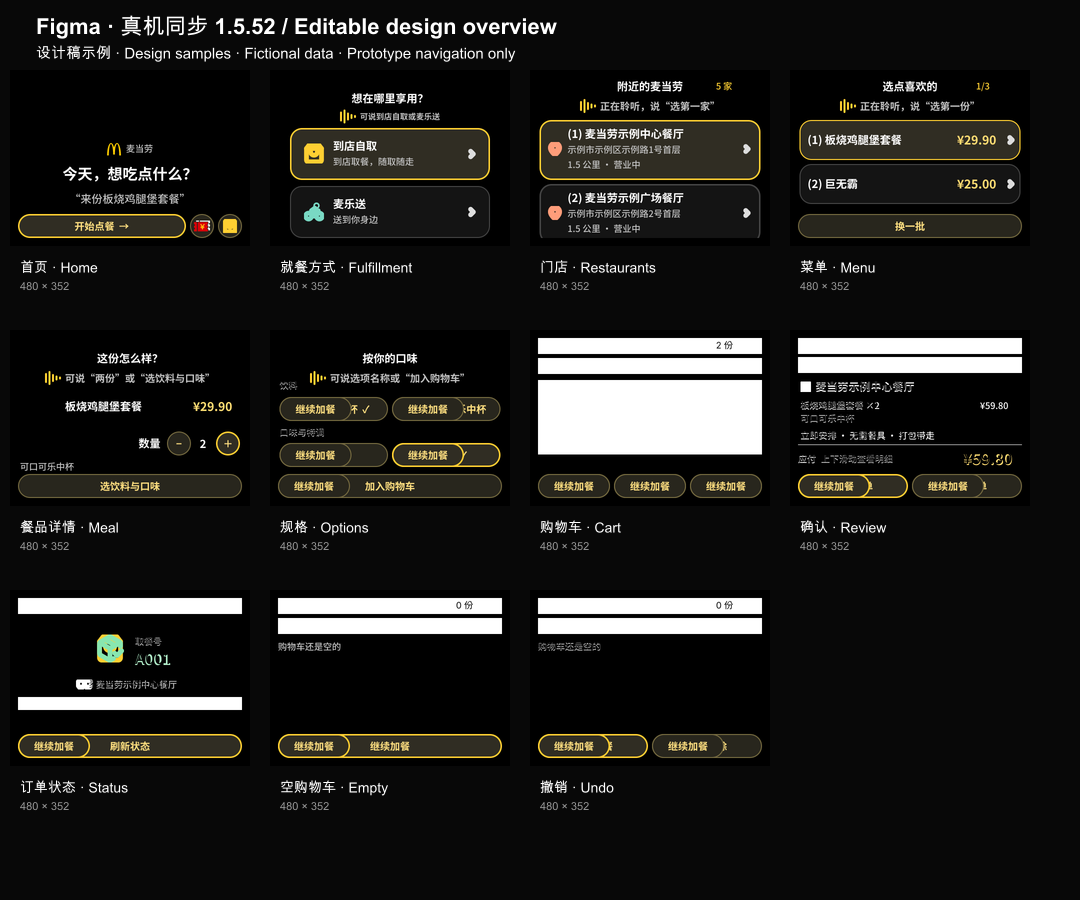
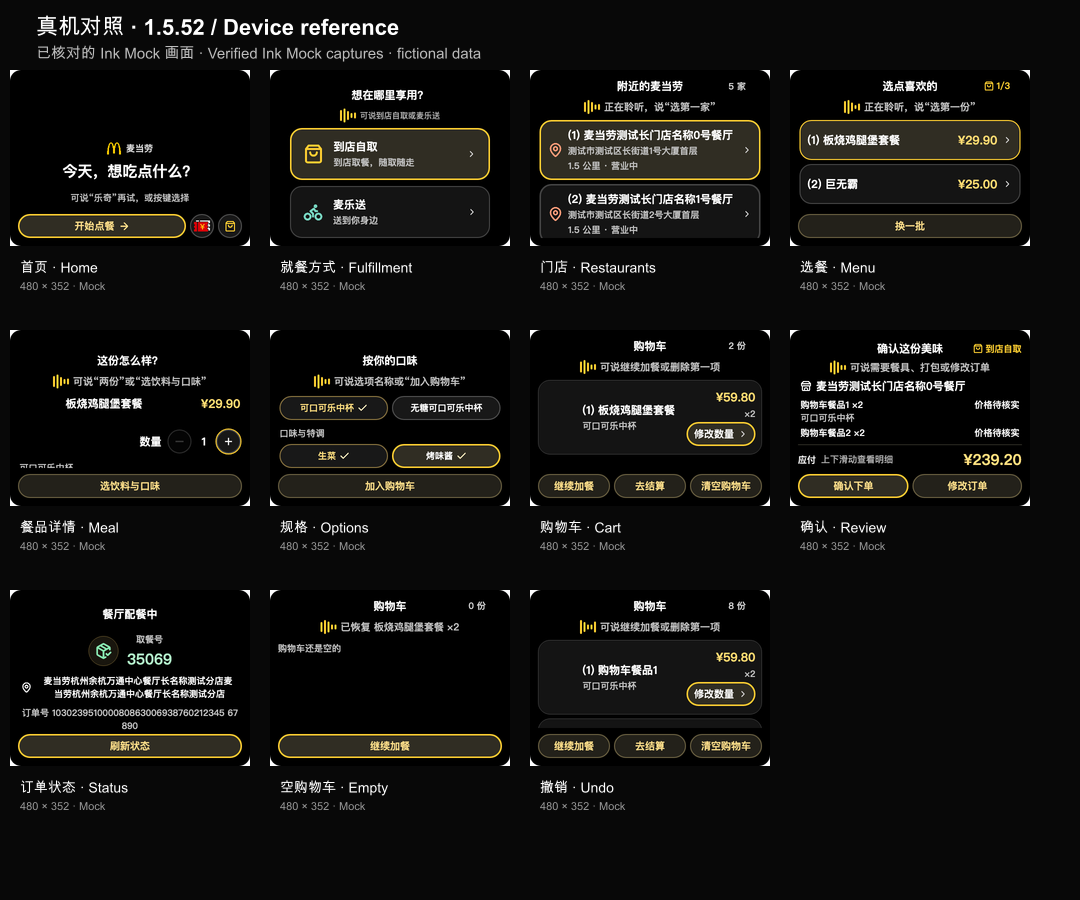
docs: add exact Ink reference page

diff --git a/docs/DESIGN.md b/docs/DESIGN.md
@@ -6,11 +6,11 @@
 
 [打开 Figma：真机同步 · 1.5.52](https://www.figma.com/design/SdkRT16rRIyzNJpWggXW4I/?node-id=309-3333)。[核心流程演示入口](https://www.figma.com/proto/SdkRT16rRIyzNJpWggXW4I/?node-id=309-3334&starting-point-node-id=309%3A3334)。
 
-此页面基于当前1.5.52源码的尺寸、样式和既有真机画面重新制作；原有三个设计页面保留。新版包含独立文本、向量图标、卡片和按钮实例，可继续编辑；不是将整张截图当作设计图层。
+可编辑页面基于当前1.5.52源码制作；另有「真机对照 · 1.5.52」（node-id=311-3799）页面，放置已核对的480×352 Ink Mock参考画面，作为精确视觉基准，避免Figma文字渲染差异造成误判。原有三个设计页面保留。可编辑页面包含独立文本、向量图标、卡片和按钮实例。
 
-**下图为 Figma 设计稿导出的流程总览，不是真机证据。** 图内餐厅、订单号及价格组合为虚构演示样本；语音动作以注释描述，点击连线仅模拟页面跳转，不执行识别、支付或真实业务提交。
+**下图为已核对的 Ink Mock 参考总览，不是真机证据。** 图内餐厅、订单号及价格组合为虚构演示样本；语音动作以注释描述，点击连线仅模拟页面跳转，不执行识别、支付或真实业务提交。
 
-![Figma设计稿：1.5.52核心点餐流程，中英文注释](images/figma-overview.png)
+![已核对的 Ink Mock 参考画面：1.5.52核心点餐流程](images/figma-overview.png)
 
 ## 画布和层级
 

diff --git a/docs/DESIGN.en.md b/docs/DESIGN.en.md
@@ -6,11 +6,11 @@
 
 [Open the “真机同步 · 1.5.52” Figma page](https://www.figma.com/design/SdkRT16rRIyzNJpWggXW4I/?node-id=309-3333). [Start the core-flow prototype](https://www.figma.com/proto/SdkRT16rRIyzNJpWggXW4I/?node-id=309-3334&starting-point-node-id=309%3A3334).
 
-The new page follows the dimensions and styles of the 1.5.52 source and recorded device UI. The original three pages remain intact. Text, vector icons, cards and button instances remain editable; the design is not a flattened screenshot placed in a frame.
+The editable page follows the dimensions and styles of the 1.5.52 source. A separate “真机对照 · 1.5.52” page (node-id=311-3799) contains the verified 480 × 352 Ink Mock reference screens, so visual comparison is exact even when Figma text rendering differs. The original three pages remain intact. Text, vector icons, cards and button instances remain editable; the design is not a flattened screenshot placed in a frame.
 
 **This overview is exported from a Figma design, not captured from glasses.** Restaurant names, order IDs and price combinations are fictional design samples. Voice actions are described by annotations; prototype clicks simulate navigation only and do not perform recognition, payment or business submissions.
 
-![Figma design: 1.5.52 core ordering flow with Chinese and English annotations](images/figma-overview.png)
+![Verified Ink Mock reference screens: 1.5.52 core ordering flow](images/figma-overview.png)
 
 ## Canvas and hierarchy
 
